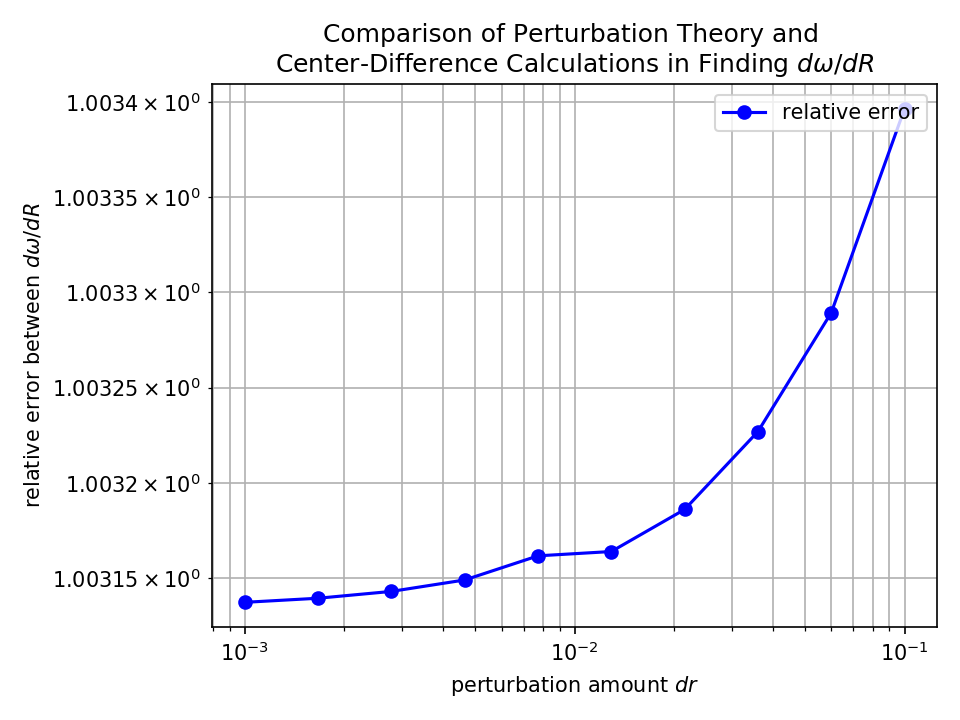
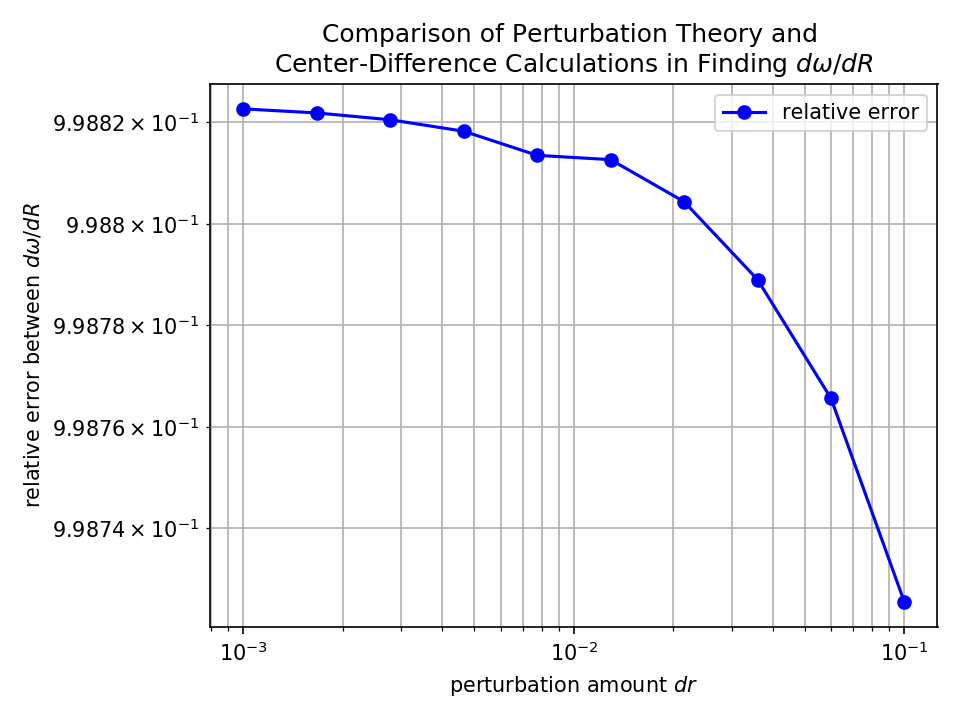
Correction adding epsilon at each point (per Eq. 30 on pg. 19 of http://ab-initio.mit.edu/book/photonic-crystals-book.pdf)

diff --git a/ring_Hz_perturbation_theory.py b/ring_Hz_perturbation_theory.py
@@ -95,7 +95,7 @@ def main():
         e_r_field = abs(sim.get_field_point(mp.Er, point))
         e_perpendicular_field = e_r_field
         # fields have to be multiplied by Δε
-        e_perpendicular_field = deps_inv_inner * e_perpendicular_field
+        e_perpendicular_field = deps_inv_inner * (abs(sim.get_epsilon_point(point, Harminv_freq_at_R))**2) * e_perpendicular_field
         perpendicular_fields_inner.append(e_perpendicular_field)
 
     # section for fields at outer surface
@@ -122,7 +122,7 @@ def main():
         e_r_field = abs(sim.get_field_point(mp.Er, point))
         e_perpendicular_field = e_r_field
         # fields have to be multiplied by Δε
-        e_perpendicular_field = deps_inv_outer * e_perpendicular_field
+        e_perpendicular_field = deps_inv_outer * (abs(sim.get_epsilon_point(point, Harminv_freq_at_R))**2) * e_perpendicular_field
         perpendicular_fields_outer.append(e_perpendicular_field)
 
     numerator_surface_integral = 2 * np.pi * b * (mean([mean(parallel_fields_inner), mean(parallel_fields_outer)]) - mean([mean(perpendicular_fields_inner), mean(perpendicular_fields_outer)]))
